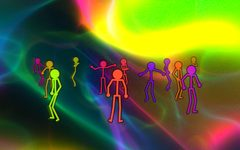
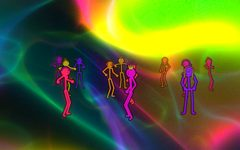
The dancers have manners and heads of their own; Journey chooses the chorus line seldom
Each figure keeps one of three manners while it is on the floor: steady, as before; lively, which takes
the music as fuller than it is, so picks the wilder moves, hits harder and bobs more; and smooth, which
rounds every move, sweeps its hands, glides on from place to place and spins. A crowd is a third of each.

Each figure has one of eight heads, told by its number: headphones, spikes, long hair, a top hat, a cap,
a bun, curls or a crest, in lines a quarter as wide as the body's and another of the palette's colours.
A head turned toward the viewer has eyes that blink and a mouth that opens with the kick. The shader
draws them in the head's own frame from a tenth set of numbers (uD9), and leaves them out on a head only
a few dots across.

Journey multiplies the chorus line's chance by 0.15 wherever it chooses an overlay (J_SELDOM).

Claude-Session: https://claude.ai/code/session_01P6VPR9y6rGkpLBNy8xwDmE

diff --git a/js/dance.js b/js/dance.js
@@ -1,5 +1,7 @@
 /* The dancers: stick figures that dance to the music, drawn by the overlays Dancer (one), Chorus line (four doing the
-   same dance together) and Dance floor (five, each with a dance of its own). They are meant to move as a person in a
+   same dance together) and Dance floor (a crowd, each with a dance of its own). Each figure has a manner of its own
+   (DN_MANNERS: steady, lively, or smooth, which glides about the floor and spins) and a head of its own (hair or a
+   hat, eyes and a mouth, which the shader draws in thin lines). They are meant to move as a person in a
    suit with lines down the limbs would: the figure is a body in space, with shoulders, hips, knees that bend forward
    and feet that point where it faces, and what is drawn is that body seen from in front, a little nearer things
    larger. This file listens for the beat and keeps a count of beats that runs on between them; a move (js/moves.js)
@@ -44,7 +46,7 @@ export const DN_QUICK=4;     /* the fastest a hand or a foot is moved within the
 export const DN_TOP=5;       /* the fastest an elbow or a hand is shown going from its shoulder, in figure heights a second */
 export const DN_FAINT=0.06;  /* a pulse under this is taken as that much weaker than one that counts: there is nearly no sound */
 export const DN_DRIFT=0.3;   /* how fast a dancing figure moves over the floor toward the place it has chosen, in figure heights a second */
-export const dnU=[new Float32Array(48),new Float32Array(48),new Float32Array(48),new Float32Array(48),new Float32Array(48),new Float32Array(48),new Float32Array(48),new Float32Array(48),new Float32Array(48)]; /* for the shader, four numbers a figure in each: neck and hips; the shoulders; left elbow and hand; right elbow and hand; the hip joints; left knee and ankle; right knee and ankle; the toes; the head's middle, its radius and how brightly the figure shows (0 for none) */
+export const dnU=[new Float32Array(48),new Float32Array(48),new Float32Array(48),new Float32Array(48),new Float32Array(48),new Float32Array(48),new Float32Array(48),new Float32Array(48),new Float32Array(48),new Float32Array(48)]; /* for the shader, four numbers a figure in each (the tenth is its face: which way the head is turned, across and toward the viewer, how far the mouth is open and how far the eyes are shut): neck and hips; the shoulders; left elbow and hand; right elbow and hand; the hip joints; left knee and ankle; right knee and ankle; the toes; the head's middle, its radius and how brightly the figure shows (0 for none) */
 const A=new Array(MV_N),B=new Array(MV_N),J=new Array(MV_N),flat=new Array(35),SP=[0,0],RM=[0,0,0,0],order=[];
 const crowd=[];              /* the figures: {rt, ri, mv, mir, u0, pmv, pmir, pu0, bl, next, tx, tz, p, b, mem, fa, sp, pfa, a, im, ic, idir, iface, itf, iph, iw}: the routine and how far through it; the move, whether it is faced the other way and the beat it began on; the same for the move before, and how far the figure has gone over from it; the beat to change on; how far the figure has travelled from its place; the pose; the body; where the elbows were; which way it is turned for this move and was for the last; how much it is dancing; and for when it is not, whether it walks, the seconds until it chooses again, which way it walks, the way it faces now and wants to, how far through its steps it is and how much it is walking */
 const st={lead:-1,per:0.5,pk:0.06,pm:0.06,amp:0,asp:1.78,u:0,du:0,pa:0,sure:0,kick:0,snap:0,en:0,hype:0,jump:-1,kind:0,phrase:0}; /* the strongest pulse of the bass and of the mids in the last few seconds; how much the figures are dancing, 0 to 1 (figures newly set up begin with it, so that changing from one overlay of figures to another does not stop the dance); how wide the picture is for 1 tall (danceFill says); the count of beats and this frame's step of it; how much pulse there has been lately; how sure the beat is; the kick as the figures feel it; how much they dance; how long since a drop; how far through a jump (in beats, -1 for none); which overlay they were set up for; how many times the chorus line has changed its dance */
@@ -255,6 +257,18 @@ export const DN_FAINT2=0.004; /* an onset under this is taken as that much weake
 export const DN_SURE0=0.22;  /* how well the record of rises must lie over itself, a beat on, before there is any beat to speak of, */
 export const DN_SURE1=0.4;   /* and for the beat to be wholly sure */
 
+/* A figure's own manner, which it keeps for as long as it is on the floor. en: how full it takes the music to be (a
+   lively one chooses livelier moves for the same music, a smooth one calmer); g how widely it sways; as how hard its
+   arms hit; bob how much its knees and head give to the beat; drift how fast it moves over the floor; glide whether
+   it keeps moving on, to a new place as soon as it reaches one, and turns all the while; flow how far its hands
+   wander in slow sweeps; ease how quickly its pose follows the move (a smooth figure rounds every corner). The
+   chorus line all have the steady manner, since they dance as one. */
+export const DN_MANNERS=[
+ {name:"steady",en:1,g:1,as:1,bob:1,drift:1,glide:0,flow:1,ease:13},
+ {name:"lively",en:1.4,g:1.25,as:1.3,bob:1.45,drift:1.2,glide:0,flow:1,ease:16},
+ {name:"smooth",en:0.72,g:0.85,as:0.55,bob:0.4,drift:2.2,glide:1,flow:4,ease:8}];
+export const DN_LOOKS=8;     /* how many kinds of head there are (the shader draws them: headphones, spikes, long hair, a top hat, a cap, a bun, a round mass of curls, a crest) */
+
 /* which of the three kinds of move fits how full the music is (e, 0 to 1 and over) */
 export function moveTier(e){return e<0.55?"lo":e<0.85?"mid":"hi";}
 /* which move a figure takes up next: one fit for how full the music is, and not the one it has */
@@ -290,13 +304,14 @@ export function setDanceStyle(s){
    comes round, at 1.2 radians a beat, to face as the move itself says, since the way it goes depends on that. */
 function carry(d,m){
   var w=turnTo(0,d.fa),r=Math.random();
-  d.g=0.75+0.5*Math.random();d.ph=Math.random();d.gp=Math.floor(3*Math.random());d.as=0.7+0.6*Math.random();
+  d.g=(0.75+0.5*Math.random())*d.ch.g;d.ph=Math.random();d.gp=Math.floor(3*Math.random());d.as=(0.7+0.6*Math.random())*d.ch.as;
   spot(d,front(st.kind,st.asp),false,SP);d.wx=SP[0];d.wz=SP[1];
   d.go=!!(m&&m.go);
   if(d.go){d.fa=w;d.sp=0;} /* it comes round to face as the move says, in danceStep */
   else{
     d.fa=w+(Math.random()-0.5)*0.8;
     d.sp=(Math.abs(w)>1.9?(w>0?1:-1):Math.random()<0.5?-1:1)*(Math.abs(w)>1.9?0.2+0.15*Math.random():r<0.35?0:0.08+0.22*Math.random()); /* with its back to the viewer it keeps turning, so as not to stay so */
+    if(d.ch.glide){if(Math.random()<0.15)d.sd=-d.sd;d.sp=d.sd*(0.3+0.3*Math.random());} /* a smooth figure spins on through every move, the same way for most of them */
   }
 }
 /* What a dancer's body does whatever the move: laid over the move's pose o at beat u for figure d. The hips sway from
@@ -320,7 +335,7 @@ function groove(o,u,d,kick,snap){
     c=12+4*s;vx=o[c]-DN_SHO;vy=o[c+1];vz=o[c+2];n=Math.max(0.05,Math.sqrt(vx*vx+vy*vy+vz*vz));
     a=d.as*(0.06*kick+0.035*snap*((s?-q:q)>0?1:0.3));
     o[c]+=a*vx/n;o[c+1]+=a*vy/n+0.02*d.as*kick;o[c+2]+=a*vz/n+0.02*d.as*kick;o[c+3]+=0.35*d.as*kick;
-    o[c]+=0.012*Math.sin(6.2831853*(u/3+d.ph+0.37*s));o[c+1]+=0.014*Math.sin(6.2831853*(u/5+2*d.ph+0.21*s));
+    o[c]+=0.012*d.ch.flow*Math.sin(6.2831853*(u/(d.ch.glide?4:3)+d.ph+0.37*s));o[c+1]+=0.014*d.ch.flow*Math.sin(6.2831853*(u/(d.ch.glide?8:5)+2*d.ph+0.21*s));
   }
   o[9]+=0.025*Math.sin(6.2831853*(u/6+d.ph));
 }
@@ -419,12 +434,13 @@ function homes(kind,n){
   return o;
 }
 function setUp(kind){
-  var i,n=count(kind),now=Math.floor(st.u),r,h=homes(kind,n),d;
+  var i,n=count(kind),now=Math.floor(st.u),r,h=homes(kind,n),d,c0=Math.floor(3*Math.random()),l0=Math.floor(DN_LOOKS*Math.random()),ch;
   crowd.length=0;st.kind=kind;st.phrase=0;
   for(i=0;i<n;i++){
-    r=kind===2&&i?crowd[0].rt:makeRoutine(st.en,Math.random,danceStyle);
-    d={rel:[0,0,0,0,0,0,0,0,0,0,0,0],dw:0,go:false,a:st.amp,g:1,ph:0,gp:0,as:1,wx:0,wz:0,vx:0,vz:0,fa:kind===2?0:(Math.random()-0.5)*1.6,sp:0,pfa:0,im:0,ic:3*Math.random(),ix:0,iz:0,iface:0,itf:(Math.random()-0.5)*3,iph:0,iw:0,
-      hf:h[i][0],hz:h[i][1],hc:h[i][2],id:i,
+    ch=DN_MANNERS[kind===2?0:(i+c0)%3]; /* a third of a crowd each way, and the dancer alone any of the three */
+    r=kind===2&&i?crowd[0].rt:makeRoutine(st.en*ch.en,Math.random,danceStyle);
+    d={ch:ch,sd:Math.random()<0.5?-1:1,mo:0,bk:0,rel:[0,0,0,0,0,0,0,0,0,0,0,0],dw:0,go:false,a:st.amp,g:1,ph:0,gp:0,as:1,wx:0,wz:0,vx:0,vz:0,fa:kind===2?0:(Math.random()-0.5)*1.6,sp:0,pfa:0,im:0,ic:3*Math.random(),ix:0,iz:0,iface:0,itf:(Math.random()-0.5)*3,iph:0,iw:0,
+      hf:h[i][0],hz:h[i][1],hc:h[i][2],id:(3*i+l0)%DN_LOOKS+DN_LOOKS*i, /* its number says which head it has (what is left over on dividing by DN_LOOKS: neighbours differ) and gives it a colour of its own */
       rt:r,ri:0,mv:r.mv[0],mir:kind!==2&&r.mir[0],u0:now,pmv:0,pmir:false,pu0:now,bl:1,next:now+4+(kind===3?i%5:0),tx:0,tz:0,p:MV_REST.slice(),b:danceBody(MV_REST,[]),mem:[0,0,0,0,0,0]};
     if(kind===3){d.hf+=(Math.random()-0.5)*0.25;d.hz+=(Math.random()-0.5)*0.5;} /* a crowd does not stand in ranks */
     crowd.push(d);
@@ -441,7 +457,7 @@ function nextMove(d,i,now,e,fresh){
   if(st.kind===2&&i>0){d.rt=crowd[0].rt;d.ri=crowd[0].ri;}
   else{
     d.ri++;n=d.rt.mv.length;
-    if(fresh||d.ri>=2*n||(d.ri%n===0&&moveTier(e)!==d.rt.tier)){d.rt=makeRoutine(e,Math.random,danceStyle);d.ri=0;}
+    if(fresh||d.ri>=2*n||(d.ri%n===0&&moveTier(e*d.ch.en)!==d.rt.tier)){d.rt=makeRoutine(e*d.ch.en,Math.random,danceStyle);d.ri=0;}
     if(st.kind===2&&d.ri%d.rt.mv.length===0)st.phrase++;
   }
   k=d.ri%d.rt.mv.length;d.mv=d.rt.mv[k];m=MOVES[d.mv];
@@ -494,13 +510,13 @@ export function danceStep(dt,bt,mp,level,drop,changed,slow,time,real,on){
     if(d.bl>=1&&(now>=d.next||changed||(st.jump<0&&d.late))){nextMove(d,i,now,e,changed||d.late||d.fresh||(st.kind===2&&crowd[0].rt!==d.rt&&i>0));d.late=false;d.fresh=false;}
     if(st.jump>=0)d.late=true;
     m=MOVES[d.mv];
-    movePose(m,st.u-d.u0,A);A[2]+=moveBob(m)*beat;A[9]+=1.5*moveBob(m)*st.kick;A[11]+=6*moveBob(m)*st.kick;
+    movePose(m,st.u-d.u0,A);A[2]+=moveBob(m)*beat*d.ch.bob;A[9]+=1.5*moveBob(m)*st.kick*d.ch.bob;A[11]+=6*moveBob(m)*st.kick*d.ch.bob;
     if(d.mir)flipPose(A);
     if(st.kind===2&&i>0)d.fa=crowd[0].fa;else if(d.go)d.fa-=Math.max(-1.2*du,Math.min(1.2*du,d.fa));else d.fa+=d.sp*du*d.a;
     A[4]+=d.fa;
     groove(A,st.u,d,st.kick,st.snap);
     if(d.bl<1){
-      movePose(MOVES[d.pmv],st.u-d.pu0,B);B[2]+=moveBob(MOVES[d.pmv])*beat;if(d.pmir)flipPose(B);B[4]+=d.pfa;
+      movePose(MOVES[d.pmv],st.u-d.pu0,B);B[2]+=moveBob(MOVES[d.pmv])*beat*d.ch.bob;if(d.pmir)flipPose(B);B[4]+=d.pfa;
       k=ease(d.bl);w=turnTo(B[4],A[4]);for(j=0;j<MV_N;j++)A[j]=B[j]+(A[j]-B[j])*k;A[4]=B[4]+w*k;
       d.bl=Math.min(1,d.bl+du); /* a beat to go from one move to the next */
     }
@@ -514,7 +530,11 @@ export function danceStep(dt,bt,mp,level,drop,changed,slow,time,real,on){
     d.a+=((far?0:amp)-d.a)*Math.min(1,dt*2.5);
     v=moveGo(m,st.u-d.u0)*(d.mir?-1:1)*d.a;k=Math.min(1,dt*2);
     if(v){w=v>0?RM[1]-d.tx:d.tx-RM[0];v*=Math.max(0,Math.min(1,w/Math.max(0.3,0.5*(RM[1]-RM[0]))));d.tx+=v*du;d.vx-=d.vx*k;d.vz-=d.vz*k;}
-    else{dx=d.wx-d.tx;dz=d.wz-d.tz;n=Math.sqrt(dx*dx+dz*dz);w=n>1e-4?Math.min(DN_DRIFT,1.2*n)/n:0;d.vx+=(dx*w-d.vx)*k;d.vz+=(dz*w-d.vz)*k;}
+    else{
+      dx=d.wx-d.tx;dz=d.wz-d.tz;n=Math.sqrt(dx*dx+dz*dz);
+      if(d.ch.glide&&n<0.08&&st.kind!==2){spot(d,F,false,SP);d.wx=SP[0];d.wz=SP[1];dx=d.wx-d.tx;dz=d.wz-d.tz;n=Math.sqrt(dx*dx+dz*dz);} /* a smooth figure does not stop where it was going: it glides on to another place */
+      w=n>1e-4?Math.min(DN_DRIFT*d.ch.drift,1.2*n)/n:0;d.vx+=(dx*w-d.vx)*k;d.vz+=(dz*w-d.vz)*k;
+    }
     d.tx+=d.vx*dt*d.a;d.tz+=d.vz*dt*d.a;
     idle(d,i,dt,time,far,B,F);
     /* the way it faces goes over with the rest. A figure about to dance begins facing as it stood, and one that has
@@ -528,7 +548,7 @@ export function danceStep(dt,bt,mp,level,drop,changed,slow,time,real,on){
       jumpPose(st.jump,J);w=ease(st.jump/0.3)*(1-ease((st.jump-DN_JUMP+0.5)/0.5))*(slow?0.5:1);
       k=A[4];for(j=0;j<MV_N;j++)A[j]+=(J[j]-A[j])*w;A[4]=k; /* the jump is made facing whichever way the figure was */
     }
-    k=Math.min(1,dt*13);w=d.p[4]+turnTo(d.p[4],A[4])*k;
+    k=Math.min(1,dt*(d.ch.ease+(13-d.ch.ease)*(1-d.a)));w=d.p[4]+turnTo(d.p[4],A[4])*k; /* each follows the move at its own manner's pace while it dances */
     for(j=12;j<28;j+=4){ /* a hand or a foot goes no faster than DN_QUICK, however far off it is asked for */
       dx=A[j]-d.p[j];dz=A[j+1]-d.p[j+1];v=A[j+2]-d.p[j+2];n=Math.sqrt(dx*dx+dz*dz+v*v)*k;
       if(n>DN_QUICK*dt){n=DN_QUICK*dt/n;A[j]=d.p[j]+dx*n;A[j+1]=d.p[j+1]+dz*n;A[j+2]=d.p[j+2]+v*n;}
@@ -544,6 +564,9 @@ export function danceStep(dt,bt,mp,level,drop,changed,slow,time,real,on){
       d.rel[3*j]=d.b[k]-d.b[w];d.rel[3*j+1]=d.b[k+1]-d.b[w+1];d.rel[3*j+2]=d.b[k+2]-d.b[w+2];
     }
     d.rel.on=true;
+    /* the face: the mouth opens with the kick, the more the livelier the figure, and the eyes shut for a moment every few seconds */
+    w=Math.min(1,st.kick*1.6)*d.a*Math.min(1,0.25+0.6*d.ch.bob);d.mo+=(w-d.mo)*Math.min(1,dt*(w>d.mo?20:6));
+    w=time*0.21+0.37*d.id;w=w-Math.floor(w)<0.035?1:0;d.bk+=(w-d.bk)*Math.min(1,dt*25);
   }
 }
 /* For Stats: what the figures hear and what they are doing about it, in a line, or "" with no figures chosen. */
@@ -586,6 +609,7 @@ export function danceFill(kind,asp){
     d=order[i];place(F,homeX(d,F)+d.tx,d.hz+d.tz,q);danceFlat(d.b,flat);
     k=q[0];
     for(j=0;j<16;j++){dnU[j>>1][4*i+2*(j&1)]=k+q[2]*flat[2*j];dnU[j>>1][4*i+2*(j&1)+1]=q[1]+q[2]*flat[2*j+1];}
+    j=d.p[4]+d.p[5]+d.p[7];dnU[9][4*i]=Math.sin(j);dnU[9][4*i+1]=Math.cos(j);dnU[9][4*i+2]=d.mo;dnU[9][4*i+3]=d.bk; /* the way the chest faces, which the head is drawn facing */
     dnU[8][4*i]=k+q[2]*flat[32];dnU[8][4*i+1]=q[1]+q[2]*flat[33];dnU[8][4*i+2]=q[2]*DN_HEAD*flat[34];dnU[8][4*i+3]=d.id+0.5*q[3];
   }
   return n;
@@ -597,5 +621,5 @@ tick=makeBeatClock();bank=makeBeatBank();
 }
 
 /* for the test tools and the browser console: every name in this file; the ones that can change have a getter and a setter */
-export const __dbg={DN_MAX, DN_HIP, DN_SPINE, DN_HEAD, DN_NECK, DN_SHO, DN_HIPW, DN_ARM, DN_FORE, DN_CLEAR, DN_BACK, DN_LEG, DN_FOOT, DN_STANCE, DN_NEAR, DN_EYE, DN_FAST, DN_SLOW, DN_SIZE, DN_DEEP, DN_UP, DN_FLOOR, DN_DRIFT, DN_FAINT, DN_RATE, DN_SURE0, DN_SURE1, DN_FAINT2, makeBeatBank, get danceBank(){return bank},set danceBank(v){bank=v}, danceSays, DN_QUICK, DN_TOP, DN_JUMP, DN_STEP, DN_WALK, DN_TURN, dnU, danceBody, danceFlat, makeBeatClock, pickMove, moveTier, makeRoutine, setDanceStyle, get danceStyle(){return danceStyle},
+export const __dbg={DN_MAX, DN_MANNERS, DN_LOOKS, DN_HIP, DN_SPINE, DN_HEAD, DN_NECK, DN_SHO, DN_HIPW, DN_ARM, DN_FORE, DN_CLEAR, DN_BACK, DN_LEG, DN_FOOT, DN_STANCE, DN_NEAR, DN_EYE, DN_FAST, DN_SLOW, DN_SIZE, DN_DEEP, DN_UP, DN_FLOOR, DN_DRIFT, DN_FAINT, DN_RATE, DN_SURE0, DN_SURE1, DN_FAINT2, makeBeatBank, get danceBank(){return bank},set danceBank(v){bank=v}, danceSays, DN_QUICK, DN_TOP, DN_JUMP, DN_STEP, DN_WALK, DN_TURN, dnU, danceBody, danceFlat, makeBeatClock, pickMove, moveTier, makeRoutine, setDanceStyle, get danceStyle(){return danceStyle},
   danceKind, danceStep, stepDance, danceSpots, danceFill, crowd, danceSt:st, get danceTick(){return tick},set danceTick(v){tick=v}};

diff --git a/js/shaders.js b/js/shaders.js
@@ -422,7 +422,7 @@ const VR_GLSL=[
 
 export const FS_TRAIL=[
 "precision highp float;varying vec2 v;uniform sampler2D uA,uB,uWv;",
-"uniform float uDecay,uZoom,uRot,uSwirl,uWob,uRip,uTime,uAsp,uOv,uOvBeat,uOvMid,uOvHi,uShift,uOvAmt,uHue,uVr,uOvEta;uniform vec4 uD0[12],uD1[12],uD2[12],uD3[12],uD4[12],uD5[12],uD6[12],uD7[12],uD8[12];uniform vec2 uDrift;uniform vec3 uPa,uPb,uPc,uPd;uniform sampler2D uVid;uniform vec4 uVidK;uniform mat3 uTurn;",
+"uniform float uDecay,uZoom,uRot,uSwirl,uWob,uRip,uTime,uAsp,uOv,uOvBeat,uOvMid,uOvHi,uShift,uOvAmt,uHue,uVr,uOvEta;uniform vec4 uD0[12],uD1[12],uD2[12],uD3[12],uD4[12],uD5[12],uD6[12],uD7[12],uD8[12],uD9[12];uniform vec2 uDrift;uniform vec3 uPa,uPb,uPc,uPd;uniform sampler2D uVid;uniform vec4 uVidK;uniform mat3 uTurn;",
 VR_GLSL,
 "vec3 pal(float x){return clamp(uPa+uPb*cos(6.28318*(uPc*x+uPd)),0.0,1.0);}",
 /* the motion: where in the last picture this place takes its trail from. c is measured from the middle, -0.5 to 0.5 */
@@ -501,7 +501,7 @@ VR_GLSL,
 "        if(uVr>0.5){el=min(uOvEta*(1.0+0.6*sin(uTime*(0.4+0.13*fi)+fi*2.1)),"+VR_EMAX+");dl=(ev-vec2(sg*el,0.0))*"+VR_KAP+";}", /* VR viewer: each light also swings nearer and farther */
 "        float q2=length(dl/m-pp),gl2=exp(-q2*q2/((0.0006+0.0025*uOvHi)*wd*wd*0.5));if(gl2>ln)oe=el;ln+=gl2;",
 "      }",
-"    }else{", /* the dancers: up to twelve stick figures (DN_MAX in js/dance.js), whose joints JavaScript works out (js/dance.js), as a body in space seen from in front. Each is a filled head, fourteen lines (back, neck, shoulders, hips, two to an arm, two to a leg, the feet) and a small filled hand at the end of each arm, with a dark edge (dk). A figure is looked at only near where it stands. They come furthest first, and each is drawn over the ones before it: its line and its dark edge hide theirs. The last number of hd is the figure's own number and half its brightness. rr, which the colour is taken from below, is set to a number of the figure's own, so each has its own colour of the palette */
+"    }else{", /* the dancers: up to twelve stick figures (DN_MAX in js/dance.js), whose joints JavaScript works out (js/dance.js), as a body in space seen from in front. Each is a filled head with a face and hair or a hat of its own, fourteen lines (back, neck, shoulders, hips, two to an arm, two to a leg, the feet) and a small filled hand at the end of each arm, with a dark edge (dk). A figure is looked at only near where it stands. They come furthest first, and each is drawn over the ones before it: its line and its dark edge hide theirs. The last number of hd is the figure's own number and half its brightness. rr, which the colour is taken from below, is set to a number of the figure's own, so each has its own colour of the palette */
 "      vec2 q=d/m;",
 "      for(int i=0;i<12;i++){",
 "        vec4 hd=uD8[i],b0=uD0[i];",
@@ -517,6 +517,29 @@ VR_GLSL,
 "          ln=ln*(1.0-e)+(1.0-smoothstep(0.35*wl,wl,ds))*fract(hd.w)*2.0;",
 "          if(e>0.5)rr=0.15+fract(id*0.382)*1.08;",
 "          dk=max(dk,e);",
+"          vec2 hu=hd.xy-b0.xy;hu/=max(length(hu),1e-5);vec2 hl=vec2(dot(q-hd.xy,vec2(hu.y,-hu.x)),dot(q-hd.xy,hu))/hd.z;", /* the head's own details, in lines a quarter as wide as the body's. hl is the place in the head's frame, in head radii: across, and up along the line from the neck */
+"          float hpx=hd.z*min(uRes.x,uRes.y);float df=smoothstep(2.5,6.0,hpx);", /* a head only a few dots across has none: they would only flicker */
+"          if(df>0.0&&dot(hl,hl)<11.0){",
+"            vec4 fc=uD9[i];float sty=mod(id,8.0);float aw=1.2/hpx;float tl=0.085*min(wd,3.0);float rh=length(hl);float ah=atan(hl.x,hl.y);float dh=1e5;", /* fc: which way the head is turned (across, toward the viewer), the mouth, the eyes' lids. Which head a figure has is its number's remainder on dividing by 8 (DN_LOOKS) */
+"            float cap=max(abs(rh-1.09),0.35-hl.y);", /* a line over the top of the head, which several share */
+"            if(sty<0.5){vec2 cu=abs(vec2(abs(hl.x)-1.16,hl.y+0.1))-vec2(0.13,0.3);dh=min(max(abs(rh-1.14),0.1-hl.y),max(cu.x,cu.y));}", /* headphones: a band and two cups */
+"            else if(sty<1.5){float af=mod(ah+0.2,0.4)-0.2;if(abs(ah)<1.4)dh=max(abs(af)*rh-0.15*(1.65-rh),max(1.0-rh,rh-1.65));}", /* spikes */
+"            else if(sty<2.5){dh=min(abs(abs(hl.x)-1.07-0.07*sin(2.4*hl.y)),abs(abs(hl.x)-1.27-0.09*sin(2.0*hl.y+1.0)));dh=min(max(dh,max(hl.y-0.3,-2.1-hl.y)),max(abs(rh-1.18),0.3-hl.y));}", /* long hair: two waving strands down each side */
+"            else if(sty<3.5){vec2 bx=abs(hl-vec2(0.0,1.42))-vec2(0.78,0.62);dh=min(abs(length(max(bx,0.0))+min(max(bx.x,bx.y),0.0)),min(max(abs(hl.y-0.8),abs(hl.x)-1.4),max(abs(hl.y-1.08),abs(hl.x)-0.78)));}", /* a top hat: its outline, its brim and its band */
+"            else if(sty<4.5){float sx=fc.x<0.0?-1.0:1.0;dh=min(min(cap,length(hl-vec2(0.0,1.16))-0.05),limb(hl,vec2(sx*0.98,0.45),vec2(sx*1.95,0.32)));}", /* a cap, its peak to the side the head is turned */
+"            else if(sty<5.5){dh=min(cap,abs(length(hl-vec2(0.0,1.42))-0.33));}", /* hair in a bun */
+"            else if(sty<6.5){if(abs(ah)<2.1)dh=min(abs(rh-1.52-0.07*cos(11.0*ah)),abs(rh-1.26-0.05*cos(9.0*ah+1.0)));}", /* a round mass of curls */
+"            else{float af=mod(ah+0.14,0.28)-0.14;if(abs(ah)<0.42)dh=max(abs(af)*rh-0.12*(2.05-rh),max(1.0-rh,rh-2.05));}", /* a crest */
+"            float he=(1.0-smoothstep(tl,2.2*tl+aw,dh))*df,hb=(1.0-smoothstep(tl-aw,tl+aw,dh))*df;",
+"            ln=ln*(1.0-he)+hb*fract(hd.w)*2.0;dk=max(dk,he);",
+"            if(hb>0.5)rr=0.15+fract(id*0.382+0.31)*1.08;", /* in another of the palette's colours than the body */
+"            if(rh<0.93&&fc.y>0.02){", /* the face, on a head turned toward the viewer: two eyes and a mouth, dark in the lit head, moved across and narrowed as the head turns */
+"              float sq=max(fc.y,0.35);vec2 fl=vec2((hl.x-0.7*fc.x)/sq,hl.y);",
+"              float de=length(vec2(abs(fl.x)-0.36,(fl.y-0.18)/(1.0-0.8*fc.w)))-0.1;",
+"              float mh=0.045+0.17*fc.z;float dm=(length(vec2(fl.x*mh/0.34,fl.y+0.36-0.5*fl.x*fl.x))-mh);", /* a thin smile, which opens on the beat */
+"              ln*=1.0-0.9*max(1.0-smoothstep(-aw,aw,de),1.0-smoothstep(-aw,aw,dm))*smoothstep(0.02,0.3,fc.y)*df*(1.0-smoothstep(0.86,0.93,rh));",
+"            }",
+"          }",
 "        }",
 "      }",
 "    }",
@@ -668,7 +691,7 @@ export function trailSource(code){
    .replace("void main(){","float time,beat,mid,hi,aspect;\nfloat sound(float x){return texture2D(uWv,vec2(clamp(x,0.0,1.0)*0.98+0.01,0.5)).r;}\nvoid mark(vec2 p,inout float ln,inout float hue){\n"+code+"\n}\nvoid main(){")
    .replace("    vec3 oc=pal(uHue+0.3+rr*0.45);","    float hq=0.3+rr*0.45;\n    if(uOv>98.5){ln=0.0;time=uTime;beat=uOvBeat;mid=uOvMid;hi=uOvHi;aspect=uAsp;mark(d/m,ln,hq);ln=clamp(ln,0.0,1.0);}\n    vec3 oc=pal(uHue+hq);");
 }
-export const TRAIL_U=["uA","uB","uWv","uDecay","uZoom","uRot","uSwirl","uWob","uRip","uTime","uAsp","uOv","uOvBeat","uOvMid","uOvHi","uDrift","uShift","uOvAmt","uHue","uVr","uVrG","uLn","uRes","uTurn","uOvEta","uPa","uPb","uPc","uPd","uVid","uVidK","uD0","uD1","uD2","uD3","uD4","uD5","uD6","uD7","uD8"];
+export const TRAIL_U=["uA","uB","uWv","uDecay","uZoom","uRot","uSwirl","uWob","uRip","uTime","uAsp","uOv","uOvBeat","uOvMid","uOvHi","uDrift","uShift","uOvAmt","uHue","uVr","uVrG","uLn","uRes","uTurn","uOvEta","uPa","uPb","uPc","uPd","uVid","uVidK","uD0","uD1","uD2","uD3","uD4","uD5","uD6","uD7","uD8","uD9"];
 
 /* for the test tools and the browser console: every name in this file; the ones that can change have a getter and a setter */
 export const __dbg={VS, fragSource, FS_TRAIL, FS_DOWN, FS_BLUR, FS_FINAL, finalSource, trailSource, TRAIL_U};

diff --git a/js/journey.js b/js/journey.js
@@ -107,6 +107,9 @@ export function jPool(k,cfg){
   });
   return out.length?out:flat;
 }
+/* What Journey chooses less often than the rest, by its own taste: the chance is multiplied by this. The chorus line
+   is one figure four times over, and the other two overlays of dancers have more to watch. */
+export const J_SELDOM={overlay:{"Chorus line":0.15}};
 export function jPick(k,cfg,cur,pool,not){
   if(!pool.length)return cur;
   if(k==="mirrors"&&cfg.none!=="even"&&pool.indexOf("0")>=0){ /* weighted toward no mirrors */
@@ -117,8 +120,8 @@ export function jPick(k,cfg,cur,pool,not){
   var others=pool.filter(function(x){return x!==cur}),fresh;
   if(!others.length)return pool[0];
   if(not){fresh=others.filter(function(x){return x!==not});if(fresh.length)others=fresh;} /* not is passed over if there is anything else: the world just left */
-  return pickWeighted(others,liked,Math.random()); /* an even chance each, unless More like this or Less like this has said otherwise */
-  function liked(x){return tasteOf(taste,k,x)}
+  return pickWeighted(others,liked,Math.random()); /* an even chance each, unless More like this or Less like this has said otherwise, or the option is one Journey reaches for less (J_SELDOM) */
+  function liked(x){return tasteOf(taste,k,x)*(J_SELDOM[k]&&J_SELDOM[k][x]||1)}
 }
 /* More like this: everything Journey is choosing that is showing now becomes more likely to be chosen again. */
 export function jMore(){
@@ -316,7 +319,7 @@ $("advForget").addEventListener("click",function(){var n=tasteCount();tasteClear
 }
 
 /* for the test tools and the browser console: every name in this file; the ones that can change have a getter and a setter */
-export const __dbg={jUse, jMade, jOverNow, get HOLD_T(){return HOLD_T}, get jOver(){return jOver},set jOver(v){jOver=v}, jMore, jLess, JNAME, get jLast(){return jLast},set jLast(v){jLast=v}, get jWas(){return jWas},set jWas(v){jWas=v}, get jFrom(){return jFrom},set jFrom(v){jFrom=v}, jtReset, MODE_LABEL, catOf, normT, normS, store, adopt, saveStore, allT, allS,
+export const __dbg={J_SELDOM, jUse, jMade, jOverNow, get HOLD_T(){return HOLD_T}, get jOver(){return jOver},set jOver(v){jOver=v}, jMore, jLess, JNAME, get jLast(){return jLast},set jLast(v){jLast=v}, get jWas(){return jWas},set jWas(v){jWas=v}, get jFrom(){return jFrom},set jFrom(v){jFrom=v}, jtReset, MODE_LABEL, catOf, normT, normS, store, adopt, saveStore, allT, allS,
   findT, findS, jCur, jNone, jIndex, jApply, jPool, jPick, applyTemplate, advanceSet,
   selectJourney, fillJT, setJMove, setJourney, autopilot, stepJourney, J, jReset, jResetAll, get jt(){return jt},set jt(v){jt=v},
   get journey(){return journey},set journey(v){journey=v}, get jMove(){return jMove},set jMove(v){jMove=v}, get CATS(){return CATS},set CATS(v){CATS=v}, get BUILTIN_T(){return BUILTIN_T},set BUILTIN_T(v){BUILTIN_T=v}, get BUILTIN_S(){return BUILTIN_S},set BUILTIN_S(v){BUILTIN_S=v}, get jset(){return jset},set jset(v){jset=v}};

diff --git a/js/render.js b/js/render.js
@@ -162,7 +162,7 @@ export function drawTrails(fr){
   gl.uniform1f(TU.uOv,ov.code?(op?99:0):sel.ovi);gl.uniform1f(TU.uOvBeat,bt);gl.uniform1f(TU.uOvMid,mp);gl.uniform1f(TU.uOvHi,hp);
   gl.uniform1f(TU.uShift,sel.moi>0?Math.min(0.3,(0.05+0.1*hp)*k60):0); /* trails drift through the colour channels so they read apart from the scene */
   gl.uniform1f(TU.uOvAmt,OVS[sel.ovsi]);gl.uniform1f(TU.uHue,clock.hueT+wHue);
-  if(ov.dance){danceFill(ov.dance,stereo?1:tc.w/tc.h);for(j=0;j<9;j++)gl.uniform4fv(TU["uD"+j],dnU[j]);} /* the dancers' joints */
+  if(ov.dance){danceFill(ov.dance,stereo?1:tc.w/tc.h);for(j=0;j<10;j++)gl.uniform4fv(TU["uD"+j],dnU[j]);} /* the dancers' joints */
   setPal(TU);
   videoUniforms(TU,tc.w,tc.h,!stereo,null);
   gl.drawArrays(gl.TRIANGLES,0,3);

diff --git a/CLAUDE.md b/CLAUDE.md
@@ -80,7 +80,7 @@ The Python tools need `google-chrome` or `chromium` on PATH (they run it headles
 - **Every sampler in the scene shader must be given a texture unit every frame.** One left at the default, unit 0, can name the picture being drawn into, and the chip then refuses the draw.
 - **Hold still averages frames of a scene that must not change.** While `stillN` is not zero the scene shader gets no sound and no clock runs. Anything new that changes the scene from frame to frame must either stop while `still` is true or be added to what `stillAim` compares.
 - **User look input goes through `userLook(dx, dy)`**, not straight into `lookX`/`lookY`. That is how the autopilot knows to stand back while the user steers. The autopilot itself still writes `lookX`/`lookY` directly.
-- **The dancers' joints are worked out in JavaScript (`js/dance.js`) and only drawn by the trails shader.** A move (`js/moves.js`) is a list of poses at given beats; a pose is 28 numbers that give hands and feet as places, sides measured outward, and `danceBody` makes a body in space from it with every bone keeping its length. A move with no `hold` flows through its keys without stopping; give it a `hold` only if it should stop on the beat. The knees' give comes from the bass itself (`st.kick`), not from the move. A new move must begin at beat 0, take 1, 2, 4, 8 or 16 beats, name its poses only by what differs from standing, and show from in front: a limb moved straight toward the viewer hardly shows, so send it to the side as well. Look at it as a row of poses before keeping it. A figure's pose is only ever gone toward (the end of the loop in `danceStep`), never set, a move is never changed while the last change is still crossing over, and elbows swing through `mem`: `tools/unit.mjs` holds every joint under seven figure heights a second. The figures stand on a floor that goes away from the viewer (`place`): nothing may come nearer than its front edge, and `danceFill` hands them to the shader furthest first, which draws each over the ones before. The shader's arrays and loop are written for `DN_MAX` (12) figures, 108 uniform vectors; change the three together. The figures dance only while the beat is `sure`: four clocks (`makeBeatBank`), each on one part of the spectrum's onsets from `listen.js`, because the beat is as often in the hi-hats as in the bass; do not go back to judging the bass's hits one at a time. Any change to the clock must keep the rhythm tests in `tools/unit.mjs`; otherwise they wait or walk (`idle`), and anything new they do without a beat belongs there, turning no faster than `DN_TURN`. The moves are chosen by chance, so the figures stop under Hold still and are left out while `lapOn()`.
+- **The dancers' joints are worked out in JavaScript (`js/dance.js`) and only drawn by the trails shader.** A move (`js/moves.js`) is a list of poses at given beats; a pose is 28 numbers that give hands and feet as places, sides measured outward, and `danceBody` makes a body in space from it with every bone keeping its length. A move with no `hold` flows through its keys without stopping; give it a `hold` only if it should stop on the beat. The knees' give comes from the bass itself (`st.kick`), not from the move. A new move must begin at beat 0, take 1, 2, 4, 8 or 16 beats, name its poses only by what differs from standing, and show from in front: a limb moved straight toward the viewer hardly shows, so send it to the side as well. Look at it as a row of poses before keeping it. A figure's pose is only ever gone toward (the end of the loop in `danceStep`), never set, a move is never changed while the last change is still crossing over, and elbows swing through `mem`: `tools/unit.mjs` holds every joint under seven figure heights a second. The figures stand on a floor that goes away from the viewer (`place`): nothing may come nearer than its front edge, and `danceFill` hands them to the shader furthest first, which draws each over the ones before. The shader's arrays and loop are written for `DN_MAX` (12) figures, 120 uniform vectors (ten to a figure: the tenth is the face); change the three together. A figure keeps a manner (`DN_MANNERS`: steady, lively, or smooth, which glides and spins) for as long as it is on the floor, and its number (`d.id`) tells the shader which of `DN_LOOKS` heads it has; the head's hair, hat and face are drawn only by the shader, in the head's own frame, and fade out on a head a few dots across. Journey chooses the chorus line seldom (`J_SELDOM` in `js/journey.js`). The figures dance only while the beat is `sure`: four clocks (`makeBeatBank`), each on one part of the spectrum's onsets from `listen.js`, because the beat is as often in the hi-hats as in the bass; do not go back to judging the bass's hits one at a time. Any change to the clock must keep the rhythm tests in `tools/unit.mjs`; otherwise they wait or walk (`idle`), and anything new they do without a beat belongs there, turning no faster than `DN_TURN`. The moves are chosen by chance, so the figures stop under Hold still and are left out while `lapOn()`.
 - **The eye (`js/eye.js`) is the last pass, over the finished picture, and nothing is drawn after it or over it.** The world, the land, the overlays and the filters show only in its pupil: a new effect belongs in the passes before it, never in `FS_EYE`. What changes in it over time comes from `clock` and the frame's sound; the blink, the gaze and the pupil are stepped in `stepEye`, which stops under Hold still and holds them fixed while `lapOn()`. Noise that goes round the iris or the white must be `vn`/`fbm` with a whole number for `per`, or a seam shows on the left. Beyond the lids is a surface of pores, not skin (`surf`): a pore with its rim must stay within 0.62 of a square of its middle, and must never have a radius of nothing, or the squares' edges show; the pores' clock is `ey.por`, stepped with the rest. The blink's times are in `BLINK_*` and `tools/unit.mjs` holds how fast the lid may move: do not make it quicker. How near it is seen from is `eyeRadius`, and at the last step the iris must cover every corner of the picture (`tools/unit.mjs` checks wide and tall); the pupil as drawn goes through `eyePupil`. It is flat on the screen, so it is off in the VR viewer. Only `blinkShut` changes the world from it, and only when nothing else has the world in hand.
 - **A panel that scrolls keeps its title and Close button at the top** (`position:sticky` on `.advHead` and `.panHead`). A new panel must do the same.
 - **A control belongs under a heading in the panel** (`#panel` in `index.html`, a plain child of a `.secBody`), not in the bar: the bar is for what is used all the time. A screen that is a task of its own (Compose) must hold every control that task needs, shown only when it can be used, so that nobody has to go elsewhere to find the next step. A chooser shows its things by name (`pickSort`).

diff --git a/README.md b/README.md
@@ -186,7 +186,7 @@ After those come **Journey**, **Hold still**, **Compose** (on a computer) and **
 |---|---|
 | Feedback motion | none, Melt, Vortex, Tunnel, Implode, Ripple, Drift. Each one smears the previous frame in a different way. |
 | Filter | none, Echo, Neon, Solar, Negative, Poster, Mosaic, Liquid, Prism, Quad, Tiles, Bulge, Twirl, Thermal, CRT, Halftone, Contour, Noir, Comic, Two-tone, Tape, Streaks, Emboss, Glass, Airbrush. The six before Airbrush were made with video in mind. **Airbrush** takes nearly all the colour out and leaves the light: cool in the shadows, warm in the highlights, as if the picture were sprayed in greys. |
-| Overlay | none, Ring, Scope, Spectrum, Spokes, Rings, Spiral, Orbit. These draw the sound on top of the picture. **Dancer**, **Chorus line** and **Dance floor** are stick figures that dance to the music: one, who goes all over a floor that runs away from you, growing smaller with distance and never larger than at its front edge; four doing the same dance together; a crowd of eight to twelve standing at different depths, the further ones smaller and drawn behind the nearer, each with a dance of its own. They are drawn as a person's body would look in a suit of lines, with shoulders, hips, hands and feet, and have 143 named moves, among them the step touch, the twist, the mashed potato, the hand jive, the macarena, Y M C A, the time warp, the electric slide, the moonwalk, the running man, the sprinkler, the floss, the dab, the can-can and a turn of Riverdance. They keep time with the beat, choose livelier moves as the music fills, dance only to a steady beat, which they find in whichever part of the sound has it (the kick drum, the claps or the hi-hats): while the music is quiet, when there is none, or when there is sound without a beat (someone talking before a song starts, say) they stand about shifting their feet or walk to and fro, and go back to their places when the beat comes, face any way and not only toward you, give at the knees on each kick of the bass, dance a routine of three to ten moves that go together and come back to it before making another, take a new routine when the sound changes greatly, sway at the hips, shift their weight and shuffle their feet whatever the move, hit with their arms on the kick, never do a move quite the same way twice, move about the floor and turn slowly on the spot as they dance, so that they are seen from every side (the moonwalk glides backward), and all jump when a drop lands. With **Tap tempo** they dance to your taps. With **Stats** on, a line says what they hear: how much they are dancing, how sure the beat is, and whether there is sound. They stay as they are in **Hold still** and are not drawn while a loop is flown. |
+| Overlay | none, Ring, Scope, Spectrum, Spokes, Rings, Spiral, Orbit. These draw the sound on top of the picture. **Dancer**, **Chorus line** and **Dance floor** are stick figures that dance to the music: one, who goes all over a floor that runs away from you, growing smaller with distance and never larger than at its front edge; four doing the same dance together; a crowd of eight to twelve standing at different depths, the further ones smaller and drawn behind the nearer, each with a dance of its own. Every figure has a manner it keeps (steady; lively, which picks the wilder moves and hits them hard; or smooth, which glides about the floor and spins) and a head of its own: headphones, spikes, long hair, a top hat, a cap, a bun, curls or a crest, with eyes that blink and a mouth that opens on the beat, drawn in thin lines. Journey chooses the chorus line far less often than the other two. They are drawn as a person's body would look in a suit of lines, with shoulders, hips, hands and feet, and have 143 named moves, among them the step touch, the twist, the mashed potato, the hand jive, the macarena, Y M C A, the time warp, the electric slide, the moonwalk, the running man, the sprinkler, the floss, the dab, the can-can and a turn of Riverdance. They keep time with the beat, choose livelier moves as the music fills, dance only to a steady beat, which they find in whichever part of the sound has it (the kick drum, the claps or the hi-hats): while the music is quiet, when there is none, or when there is sound without a beat (someone talking before a song starts, say) they stand about shifting their feet or walk to and fro, and go back to their places when the beat comes, face any way and not only toward you, give at the knees on each kick of the bass, dance a routine of three to ten moves that go together and come back to it before making another, take a new routine when the sound changes greatly, sway at the hips, shift their weight and shuffle their feet whatever the move, hit with their arms on the kick, never do a move quite the same way twice, move about the floor and turn slowly on the spot as they dance, so that they are seen from every side (the moonwalk glides backward), and all jump when a drop lands. With **Tap tempo** they dance to your taps. With **Stats** on, a line says what they hear: how much they are dancing, how sure the beat is, and whether there is sound. They stay as they are in **Hold still** and are not drawn while a loop is flown. |
 | Overlay strength | 15%, 30%, 50%, 75% or 100%. |
 | Mirrors | Opens a chooser: off, 3, 4, 6, 8 or 12 segments. The M key steps through them. |
 | FX | Opens a chooser: glow, trails or clean. Sets the base amount of trail and bloom. |

diff --git a/docs/ARCHITECTURE.md b/docs/ARCHITECTURE.md
@@ -536,6 +536,9 @@ The **FX** button sets the base: glow (decay 0.78, bloom 0.55, fringe 0.004), tr
 Drawn into the feedback buffer after the composite, so the motion smears them. Selected by `uOv` (1..7): Ring, Scope, Spectrum, Spokes, Rings, Spiral, Orbit (8 to 10 are the dancers, below). Sound data arrives as a 128x1 luminance texture `uWv`, refilled each frame by `updateWave()` with either the time-domain waveform or the frequency spectrum (overlays marked `spec` in `OVERLAYS`). With no live audio a synthetic shape is used. Colour is `pal(uHue + 0.3 + 0.45*r)` from the current palette. Strength is `uOvAmt` (15, 30, 50, 75 or 100%) and blends as `o += (max(o, colour) - o) * line * amount`.
 
 **The dancers** (`js/dance.js`, `js/moves.js`; `uOv` 8 to 10: Dancer, Chorus line, Dance floor, marked `dance: 1`, `2`, `3` in `OVERLAYS`). Stick figures that dance to the music: one, with a deep floor to itself; four doing the same dance together; a crowd of eight to twelve (chosen each time the overlay is), each with its own. They are meant to move as a person in a suit with lines down the limbs would. Nothing about them is in the sound texture: JavaScript works out every joint and the shader only draws lines.
+- *Manners.* A figure keeps one of three for as long as it is on the floor (`DN_MANNERS`; a third of a crowd each, the dancer alone any, the chorus line all steady, since they dance as one). **Steady** is the figure as it always was. **Lively** takes the music to be 1.4 times as full as it is, so chooses livelier moves, sways and hits with its arms a quarter to a third more, gives half as much again to the beat with its knees and head, and follows a move more sharply. **Smooth** takes the music as 0.72 as full, hits half as hard, hardly bobs, rounds every corner of a move (its pose follows at 8 a second, not 13), sweeps its hands in slow wide curves, moves over the floor at 2.2 times `DN_DRIFT` and chooses a new place as soon as it reaches one, so it never stops gliding, and spins on the spot through every move at 0.3 to 0.6 radians a beat, the same way for most of them. All of it is inside the room a figure already had, and `tools/unit.mjs` still holds every joint under seven heights a second.
+- *Heads.* Each figure's number (`d.id`) is its place in the crowd times 8 plus which of the eight heads it has (`DN_LOOKS`), neighbours differing: headphones, spikes, long hair, a top hat, a cap whose peak points the way the head is turned, a bun, a round mass of curls, a crest. The shader takes the number's remainder on dividing by 8 and draws the head's details in the head's own frame (across, and up along the line from the neck, in head radii), in lines a quarter as wide as the body's and in another of the palette's colours. A head turned toward the viewer has two eyes and a mouth, dark in the lit head, moved across and narrowed as it turns (`uD9`: the sine and cosine of the way the chest faces, how far the mouth is open, how far the eyes are shut). The mouth is a thin smile that opens with the kick, more on a lively figure; the eyes shut for a moment every five seconds or so. On a head under about six dots across the details fade out, and under two and a half they are not worked out at all, so the far figures of a crowd cost what they did. Per dot it is one test against the head's place and, near a head, one head's worth of arithmetic: little beside the sixteen lines of the body.
+- *Journey and the chorus line.* `J_SELDOM` in `js/journey.js` multiplies the chorus line's chance by 0.15 wherever Journey chooses an overlay, on top of the user's own likes: from either other overlay of dancers it is taken about one time in eight.
 
 - *Keeping time.* `makeBeatClock` is given the bass's pulse each frame. A hit is the pulse rising 0.15 above where it had sunk to (and above 0.2, and at least 0.24 s after the last). The time between two hits is doubled or halved into `DN_FAST` to `DN_SLOW` (0.36 to 0.72 s, 166 to 83 beats a minute) and taken as the beat's length when within 18% of what is held (eased in by 0.3), or after three in a row that are not. The count `u` runs on at one a beat; a hit within 0.3 of a whole count pulls the count three quarters of the way to it, spread over the next frames, and three hits in a row that fall between the counts move the count to them. The count never goes backward. It is kept whatever overlay is chosen, so figures chosen later are in time at once. A tapped tempo is followed the same way, since it gives the same pulse.
 - *A pose* is `MV_N` (28) numbers, listed at the top of `js/moves.js`: where the hips are (across, toward the viewer, lowered, off the floor), the whole figure's turn on the spot, the hips' turn over the feet and their tip, the chest's turn on the hips, the back's lean sideways and forward, the head's tip and nod; then each hand as a place (out from the neck, up along the back, forward of the chest) with how high its elbow is carried, and each foot as a place (out from where it stands, up, forward) with how far its knee is turned out. Hands and feet are given as places, not angles, because that is how a move is described ("hand behind the head", "foot out to the side") and because places can be mixed and eased in straight lines. Sides are measured outward, so `flipPose` turns a pose to face the other way by exchanging them.
